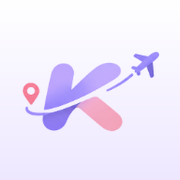
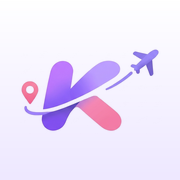
Add files via upload

Changed region(s): [[0.1111, 0.2778, 0.8889, 0.75]]

diff --git a/js/features/chat/chat.view.js b/js/features/chat/chat.view.js
@@ -113,7 +113,17 @@ export async function roomView({ root, params }) {
         h('a', { class: 'btn btn-primary btn-sm', href: `#/login?next=${encodeURIComponent(location.hash)}` }, t('auth.login')))
     : null;
   const nearBottom = () => scroller.scrollHeight - scroller.scrollTop - scroller.clientHeight < 120;
-  const toBottom = () => { scroller.scrollTop = scroller.scrollHeight; };
+  const toBottom = () => {
+    scroller.scrollTop = scroller.scrollHeight;
+    requestAnimationFrame(() => { scroller.scrollTop = scroller.scrollHeight; });   // 글이 그려진 뒤 한 번 더
+    setTimeout(() => { scroller.scrollTop = scroller.scrollHeight; }, 250);          // 폰 키보드가 올라오는 동안 한 번 더
+  };
+  // 폰 키보드가 올라오거나 내려가 화면 높이가 바뀔 때, 맨 아래를 보고 있었다면 맨 아래를 유지
+  let wasAtBottom = true;
+  scroller.addEventListener('scroll', () => { wasAtBottom = nearBottom(); }, { passive: true });
+  const onResize = () => { if (wasAtBottom) scroller.scrollTop = scroller.scrollHeight; };
+  window.addEventListener('resize', onResize);
+  window.visualViewport?.addEventListener('resize', onResize);
 
   // ---- 메시지 한 줄 만들기 ------------------------------------------------------
   function messageEl(msg) {
@@ -272,6 +282,7 @@ export async function roomView({ root, params }) {
       input.focus();
     }
   }
+  input.addEventListener('focus', () => setTimeout(toBottom, 300));   // 입력칸을 누르면(키보드 올라올 때) 최신 글이 보이게
   form.addEventListener('submit', (e) => { e.preventDefault(); send(); });
   input.addEventListener('keydown', (e) => {
     if (e.key === 'Enter' && !e.shiftKey && !e.isComposing) { e.preventDefault(); send(); }   // 한글 입력 중 Enter 는 무시
@@ -306,7 +317,7 @@ export async function roomView({ root, params }) {
     onReconnect: catchUp,
   });
 
-  return () => { unsubscribe(); document.removeEventListener('click', onDocClick); root.classList.remove('chat-mode'); };
+  return () => { unsubscribe(); window.removeEventListener('resize', onResize); window.visualViewport?.removeEventListener('resize', onResize); document.removeEventListener('click', onDocClick); root.classList.remove('chat-mode'); };
 }
 
 // 사진 크게 보기 (원본 크기 사진은 이때만 내려받음 = 데이터 절약)

diff --git a/sw.js b/sw.js
@@ -1,7 +1,7 @@
 // sw.js | 서비스 워커: 앱 파일(화면 코드/디자인/아이콘)만 폰에 저장해 두고 빠르게 엽니다.
 //   - 로그인 정보, 글, 채팅 등 "데이터"는 절대 저장하지 않습니다. (다른 주소 = Supabase 요청은 가로채지 않음)
 //   - 앱을 수정해서 다시 배포할 때는 아래 VERSION 숫자만 올리면 사용자 폰의 옛 파일이 새 파일로 교체됩니다.
-const VERSION = 'v24';
+const VERSION = 'v26';
 const CACHE = `korealink-${VERSION}`;
 
 self.addEventListener('install', (event) => {

diff --git a/CHANGELOG.md b/CHANGELOG.md
@@ -17,3 +17,5 @@
 - **v022** (2026-11-26) GitHub+Cloudflare 자동배포 구조(빌드 시 서비스워커 버전 자동, .node-version, 안내)
 - **v023** (2026-11-27) 모임 만들기: 사진 고를 때 입력 내용 지워짐 수정, 임시저장, 업로드 오류 원인 표시
 - **v024** (2026-11-27) 새 앱 아이콘(첨부 로고) + 모임 승인 알림(015)
+- **v025** (2026-11-27) 앱 아이콘을 고해상도 새 로고로 교체
+- **v026** (2026-11-27) 채팅 전송 시 맨 아래 자동 스크롤, 게스트 채팅 7일 자동정리(016), 초기화 SQL 준비
